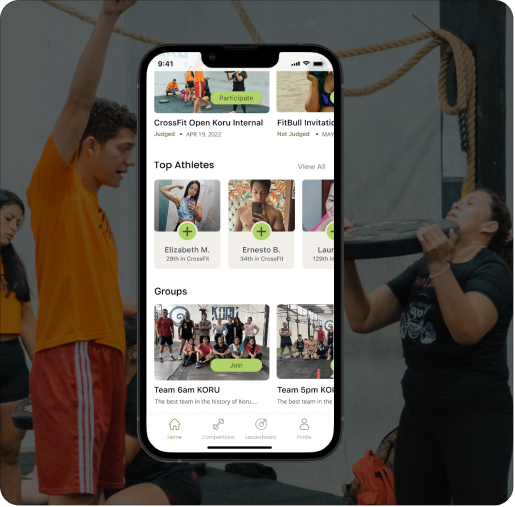
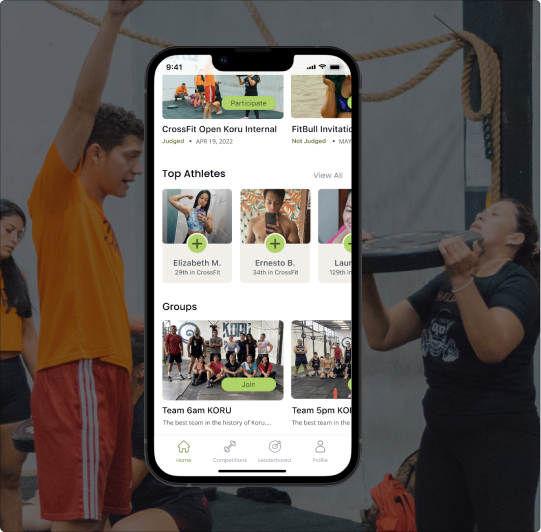
Portfolio pictures, Black/White colors update

diff --git a/src/layout/Layout.scss b/src/layout/Layout.scss
@@ -4,7 +4,7 @@ body {
   font-family: "Roboto", sans-serif;
   -webkit-font-smoothing: antialiased;
   font-size: 16px;
-  color: #000000;
+  color: #1F1F1F;
 }
 
 p, .paragraph {
@@ -177,7 +177,7 @@ h6, .h6 {
   font-family: "Roboto", san-serif;
 }
 a.badge, a.badge:hover{
-  color: #000000;
+  color: #1f1f1f;
 }
 .bg-danger, .bg-danger:hover {
   background-color: #FF799D !important;
@@ -296,7 +296,7 @@ a:hover {
 }
 
 .bg-primary {
-  background: #000000 !important;
+  background: #110D14 !important;
 }
 
 .bg-gray {
@@ -312,7 +312,7 @@ a:hover {
 }
 
 .text-dark {
-  color: #000 !important;
+  color: #1f1f1f !important;
 }
 
 .mb-10 {
@@ -475,7 +475,7 @@ textarea.form-control {
 @media (max-width: 991px) {
   .navigation {
     padding: 20px;
-    background: #000000;
+    background-color: #110D14;
   }
 }
 
@@ -684,7 +684,7 @@ textarea.form-control {
   left: 0;
   right: 0;
   text-align: center;
-  background-color: #000000;
+  background-color: #110D14;
   padding: 1em;
 }
 
@@ -787,7 +787,7 @@ blockquote {
   font-family: "Lora", serif;
   font-size: 22px;
   font-weight: normal;
-  color: #000;
+  color: #1f1f1f;
   display: inherit;
   line-height: 1.5;
 }

diff --git a/src/components/misc/HomePortfolio.jsx b/src/components/misc/HomePortfolio.jsx
@@ -25,7 +25,7 @@ const HomePortfolio = () => {
                             <div className="row align-items-center">
                                 <div className="col-12 col-md-6 px-0 pr-md-5 mb-5 mb-md-0">
                                     <Link to='/Portfolio/Dalig'>
-                                        <img className="portfolio-img" src={ process.env.PUBLIC_URL + '/images/portfolio/dalig.jpg'} 
+                                        <img className="portfolio-img" src={ process.env.PUBLIC_URL + '/images/home/dalig2.jpg'} 
                                                 alt="Pentalogix Analytics"/>
                                     </Link>
                                 </div>

diff --git a/src/styles/user.scss b/src/styles/user.scss
@@ -63,7 +63,7 @@
 *    Portfolio
 */
 a, a:hover{
-    color: #000000;
+    color: #1F1F1F;
 }
 .portfolio-list{
     .hover-content{
@@ -82,9 +82,9 @@ a, a:hover{
 .portfolio{
     &.dalig,&.pentalogix{
         .odd{
-            color: #000000!important;
+            color: #1f1f1f!important;
             p{
-                color: #000000;
+                color: #1f1f1f;
             }
         }
     }
